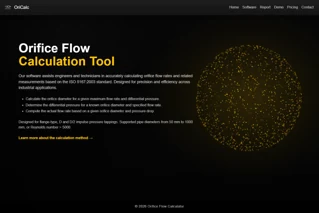
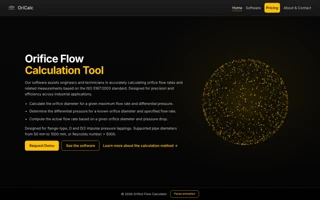
[claude] Orifice website: nowe zrzuty po redesignie strony i opis EN/PL

diff --git a/tests/test_site.py b/tests/test_site.py
@@ -99,7 +99,7 @@ class RenderedTests(unittest.TestCase):
             self.assertIsNotNone(soup.select_one(f'.prose a[href="{prefix}/projects/orifice-calculation-software/"]'))
             self.assertIsNotNone(soup.select_one('.references a[href="https://orifice-software.com/"]'))
             figures = soup.select('.project-images [data-image-preview]')
-            self.assertEqual([a['href'] for a in figures], ['/img/portfolio/orifice_website_home.png', '/img/portfolio/orifice_website_method.png'])
+            self.assertEqual([a['href'] for a in figures], ['/img/portfolio/orifice_website_home.png', '/img/portfolio/orifice_website_method.png', '/img/portfolio/orifice_website_software.png', '/img/portfolio/orifice_website_pricing.png'])
             self.assertEqual(len(soup.select('.prose h2')), 4)
             collection = BeautifulSoup((SITE / prefix.lstrip('/') / 'projects/index.html').read_text(encoding='utf-8'), 'html.parser')
             self.assertEqual(collection.select_one('[data-results-count]').get_text(), '19')

diff --git a/_projects/pl/orifice-website.md b/_projects/pl/orifice-website.md
@@ -3,7 +3,8 @@ layout: project
 project_id: orifice-website
 lang: pl
 title: Strona internetowa Orifice
-description: Projekt i wykonanie strony produktowej oprogramowania do obliczeń kryz pomiarowych.
+description: Projekt i wykonanie strony produktowej OriCalc, od podstron o programie
+  po sprzedaż online, pobieranie demo i aktywację licencji.
 permalink: /pl/projects/orifice-website/
 translation_key: orifice-website
 order: 18
@@ -12,18 +13,18 @@ featured: 0
 
 ## Wyzwanie
 
-Prezentacja specjalistycznego oprogramowania obliczeniowego wymaga jasnego przedstawienia jego możliwości, metod obliczeń i wyników.
+Sprzedaż specjalistycznego oprogramowania obliczeniowego przez internet wymaga jasnego przedstawienia jego możliwości i metody obliczeń, a także obsługi zgłoszeń o demo, płatności i licencji aplikacji desktopowej bez ręcznej pracy.
 
 ## Wkład w projekt
 
-Zaprojektowałem i wykonałem stronę produktową Orifice, łącząc informacje o programie, objaśnienia techniczne i zrzuty ekranu aplikacji.
+Zaprojektowałem i wykonałem stronę produktową OriCalc wraz z jej zapleczem. W 2026 roku strona przeszła redesign: otrzymała ciemną identyfikację wizualną, animowaną sferę z cząsteczek w nagłówku (z możliwością zatrzymania animacji) oraz prostszą nawigację opartą na programie, cenniku i kontakcie.
 
 ## Podejście
 
-Uporządkowałem stronę wokół informacji o programie, raportów, wersji demonstracyjnej, cen i kontaktu, dodając osobne objaśnienie metody obliczeń.
+Strona główna prezentuje trzy tryby obliczeń i zakres normy ISO 5167:2003 oraz prowadzi bezpośrednio do zamówienia demo lub opisu programu. Podstrona programu pokazuje interfejs i galerię stron generowanego raportu. Cennik porównuje bezpłatne demo, licencję bezterminową Basic i ofertę Enterprise oraz odpowiada na pytania o platformę, licencję i aktywację. Osobna podstrona przedstawia metodę obliczeń z renderowanymi równaniami. Za stroną działa aplikacja Flask, która obsługuje płatności online, zgłoszenia demo z bezpiecznymi linkami do pobrania i aktywację licencji przypisanej do urządzenia, a także metadane dla wyszukiwarek, mapę strony oraz buforowane i kompresowane zasoby statyczne.
 
 ## Rezultaty
 
-Opublikowana strona umożliwia zapoznanie się z oprogramowaniem, jego interfejsem, metodą obliczeń i prezentowanymi wynikami.
+Opublikowana strona jest teraz zarówno publicznym źródłem informacji o OriCalc, jak i kanałem sprzedaży, obejmującym drogę od pierwszej wizyty przez pobranie demo po zakup i aktywowaną licencję.
 
 [Poznaj projekt oprogramowania do obliczeń kryz pomiarowych](/pl/projects/orifice-calculation-software/).

diff --git a/HANDOFF.md b/HANDOFF.md
@@ -5,12 +5,12 @@ Gałąź główna: `redesign/bilingual-portfolio`.
 
 ## Aktualne zadanie
 
-- **Status:** WOLNE  <!-- WOLNE / W TOKU / DO REVIEW / POPRAWKI / DO MERGE -->
-- **Autor:** -
-- **Recenzent:** -
-- **Gałąź:** -
-- **Pliki:** -
-- **Cel:** -
+- **Status:** DO REVIEW  <!-- WOLNE / W TOKU / DO REVIEW / POPRAWKI / DO MERGE -->
+- **Autor:** Claude (na prośbę Sławosza)
+- **Recenzent:** ChatGPT
+- **Gałąź:** `claude/orifice-website-update` (od `claude/oricalc-cleanup`, która nie jest jeszcze w redesignie; merge tej gałęzi wnosi obie)
+- **Pliki:** `_projects/en|pl/orifice-website.md`, `_data/projects.yml`, `_data/images.yml`, `img/portfolio/orifice_website_*.png`, `assets/images/orifice_website_*.webp`, `tests/test_site.py` (oczekiwana galeria)
+- **Cel:** zaktualizować wpis o stronie orifice-software.com po redesignie strony (nowe zrzuty i opis).
 
 ## Review
 
@@ -18,7 +18,8 @@ Gałąź główna: `redesign/bilingual-portfolio`.
 
 ## Dla następnej osoby
 
-- (brak)
+- ChatGPT: zrób review `git diff claude/oricalc-cleanup..claude/orifice-website-update`. Zrzuty (`home`, `software`, `pricing`, `method`, 1440 px) wyrenderowano z szablonów lokalnego repo `C:\Git_hub_local\orifice-software.com` (stan z 2026-10-09), bo z sandboxa Claude strona live jest zablokowana. Porównaj je z https://orifice-software.com/ i sprawdź fakty w tekście EN/PL (redesign 2026, Flask, płatności, demo z linkami, aktywacja licencji, SEO). Galeria ma 3 obrazki + główny; zaktualizowano oczekiwaną listę w `tests/test_site.py:102`. `python -m unittest tests.test_content` przechodzi.
+- Sławosz: po OK zmerguj gałąź z review do redesignu, potem `main` przez `--ff-only`.
 
 ## Historia
 
@@ -33,3 +34,4 @@ Gałąź główna: `redesign/bilingual-portfolio`.
 - 2026-10-11 · ChatGPT · `chatgpt/review-oricalc-redesign-fix` · Review `6959bcb`: historia produktu poprawiona w EN/PL, OK, DO MERGE; 4 testy treści przeszły. Opcjonalna uwaga językowa: „powstawało” → „powstawała” w PL. Zmieniono tylko `HANDOFF.md`.
 - 2026-10-11 · Sławosz · `redesign/bilingual-portfolio` + `main` · Zmergowano aktualizację OriCalc (`b62db15`); `main` wyrównany do redesignu.
 - 2026-10-11 · Claude · `claude/oricalc-cleanup` · Poprawka językowa z review („powstawała”) i zamknięcie zadania OriCalc (status WOLNE).
+- 2026-10-11 · Claude · `claude/orifice-website-update` · Wpis „Orifice software website” zaktualizowany po redesignie strony: nowe zrzuty strony głównej i metody, dodane zrzuty podstrony programu i cennika, nowy opis EN/PL. Status DO REVIEW.

diff --git a/_projects/en/orifice-website.md b/_projects/en/orifice-website.md
@@ -3,7 +3,8 @@ layout: project
 project_id: orifice-website
 lang: en
 title: Orifice software website
-description: Design and development of a product website for orifice calculation software.
+description: Design and development of the OriCalc product website, from product pages
+  to online sales, demo downloads and licence activation.
 permalink: /projects/orifice-website/
 translation_key: orifice-website
 order: 18
@@ -12,18 +13,18 @@ featured: 0
 
 ## The challenge
 
-Presenting specialist calculation software requires clear explanations of its capabilities, calculation methods and outputs.
+Selling specialist calculation software online means explaining its capabilities and calculation method clearly, and also handling demo requests, payments and licences for a desktop application without manual work.
 
 ## Contribution
 
-Designed and developed the Orifice product website, combining product information, technical explanations and software screenshots.
+Designed and developed the OriCalc product website and its backend. In 2026 the site was redesigned with a dark visual identity, an animated particle sphere in the hero (with a control to pause the animation) and simpler navigation built around the software, pricing and contact.
 
 ## Approach
 
-Organized the website around software information, reports, a demo, pricing and contact, with a dedicated explanation of the calculation method.
+The home page leads with the three calculation modes and the ISO 5167:2003 scope, with direct calls to request a demo or see the software. The software page shows the interface and a gallery of generated report pages. The pricing page compares the free demo, the Basic lifetime licence and the Enterprise offer, and answers questions about platform, licensing and activation. A separate page presents the calculation method with rendered equations. Behind the pages, a Flask application handles online payments, demo requests with secure download links and device-bound licence activation, as well as search-engine metadata, a sitemap and cached, compressed static assets.
 
 ## Results
 
-The published website provides a public reference for understanding the software and exploring its interface, calculation approach and outputs.
+The published website now works as both the public reference and the sales channel for OriCalc, covering the path from a first visit to a demo download, purchase and activated licence.
 
 [Explore the Orifice calculation software case study](/projects/orifice-calculation-software/).
